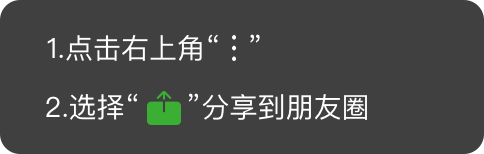
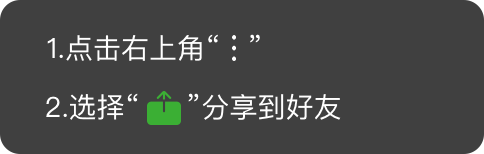
修改文章详情

diff --git a/views/news_detail.html b/views/news_detail.html
@@ -52,6 +52,20 @@
   font-weight: 400;
   line-height: 23px;
 }
+.cue_weixin2 {
+    position: fixed;
+    right: 50%;
+    top: 50%;
+    margin-right: -134px;
+    margin-top: -47px;
+    display: none;
+}
+.cue_weixin2 div {
+  width: 268px;
+  height: 94px;
+  background: url({{helper.cdnhost}}/assets/img/fen_alert2.png) no-repeat;
+  background-size: cover;
+}
 </style>
 </head>
 
@@ -71,7 +85,7 @@
   <div class="header1" style="float: left;font-size: 12px;color: #666;overflow: hidden;text-overflow: ellipsis;display:-webkit-box;-webkit-box-orient:vertical;-webkit-line-clamp:1;line-height: 30px;"><a href="{{helper.urlgen('branch_home','c='+tdk.cityid)}}" style="color: #666;">首页</a> > <a href="{{helper.urlgen(userinfo.uid)}}" style="color: #666;">顾问主页</a> > {{wenzhangdiye.article_info.title}}</div>
   <div class="fenxiang_con fenxiang_top" style="right: 0px;position: fixed;top: 43px;z-index: 1001;width: 73%;height: 85px;padding: 20px 0 20px 10px;float: right;margin-right: 15px;display: flex;justify-content: space-around;background: url({{helper.cdnhost}}/assets/img/article_det_fen_bac.png);background-size: cover;display: none;">
     <div style="width: 30px;height: 30px;text-align: center;" class="wenxin_con"><span style="font-size: 10px;color: #333;float: left;display: block;margin-top: 35px;width: 45px;margin-left: -10px;">朋友圈</span></div>
-    <div style="width: 30px;height:30px;text-align: center;" class="wenxin_con1"><span style="font-size: 10px;color: #333;float: left;display: block;margin-top: 35px;width: 50px;margin-left: -10px;">微信好友</span></div>
+    <div style="width: 30px;height:30px;text-align: center;" class="wenxin_con2"><span style="font-size: 10px;color: #333;float: left;display: block;margin-top: 35px;width: 50px;margin-left: -10px;">微信好友</span></div>
     <div style="width: 30px;height: 30px;text-align: center;" class="cue_qq_con"><span style="font-size: 10px;color: #333;float: left;display: block;margin-top: 35px;width: 45px;margin-left: -10px;">QQ好友</span></div>
     <div class="bdsharebuttonbox bdshare-button-style0-16">
       <a href="#" style="" class="bds_tsinas" data-cmd="tsina" title="分享到新浪微博"></a>
@@ -137,12 +151,12 @@
     <div style="background:#fff;box-sizing: border-box; border-top: 1px solid #f5f5f5; padding: 30px 0 0px; ">
         <div style="font-size:15px; color: #333;text-align: center; padding-bottom: 10px;" onclick="open_main('{{userinfo.uid}}')">去主页浏览TA的更多精彩内容 >></div>
         {% if toptitle != '' %}
-        <div style="box-sizing: border-box; margin: 20px 15px; color: #666;font-size: 13px">
+        <div style="box-sizing: border-box; margin: 20px 15px; color: #666;font-size: 13px;overflow: hidden;text-overflow: ellipsis;display: -webkit-box;-webkit-box-orient: vertical;-webkit-line-clamp: 1;">
           上一篇文章： <a href="{% if article == 'article' %}{{helper.urlgen('article',topid | safeId |string)}}{% else %}{{helper.urlgen('case',topid | safeId |string)}}{% endif %}" style="font-size:15px; color: #666;" >{{toptitle}}</a>
         </div>
         {% endif %}
         {% if lowertitle != '' %}
-        <div style="box-sizing: border-box; padding: 20px 0; margin: 0 15px; color: #666;font-size: 13px; border-top:2px solid #f5f5f5;">
+        <div style="line-height: 39px;box-sizing: border-box; padding: 20px 0; margin: 0 15px; color: #666;font-size: 13px; border-top:2px solid #f5f5f5;overflow: hidden;text-overflow: ellipsis;display: -webkit-box;-webkit-box-orient: vertical;-webkit-line-clamp: 1;">
           下一篇文章： <a href="{% if article == 'article' %}{{helper.urlgen('article',lowerid | safeId |string)}}{% else %}{{helper.urlgen('case',lowerid | safeId |string)}}{% endif %}" style="font-size:15px; color: #666;" >{{lowertitle}}</a>
         </div>
         {% endif %}
@@ -174,6 +188,9 @@
       {% endfor %}
     </div>
     <!-- 相关推荐结束 -->
+    <div class="cue_weixin2">
+      <div></div>
+    </div>
     <div class="cue_weixin">
       <div></div>
     </div>
@@ -303,9 +320,9 @@
           e.stopPropagation();
           this.flag = !this.flag;
           if (this.flag) {
-            $('.cue_weixin').css("display", "block");
+            $('.cue_weixin2').css("display", "block");
           } else {
-            $('.cue_weixin').css("display", "none");
+            $('.cue_weixin2').css("display", "none");
           }
         });
         $(document).on('click touchstart', function () {
